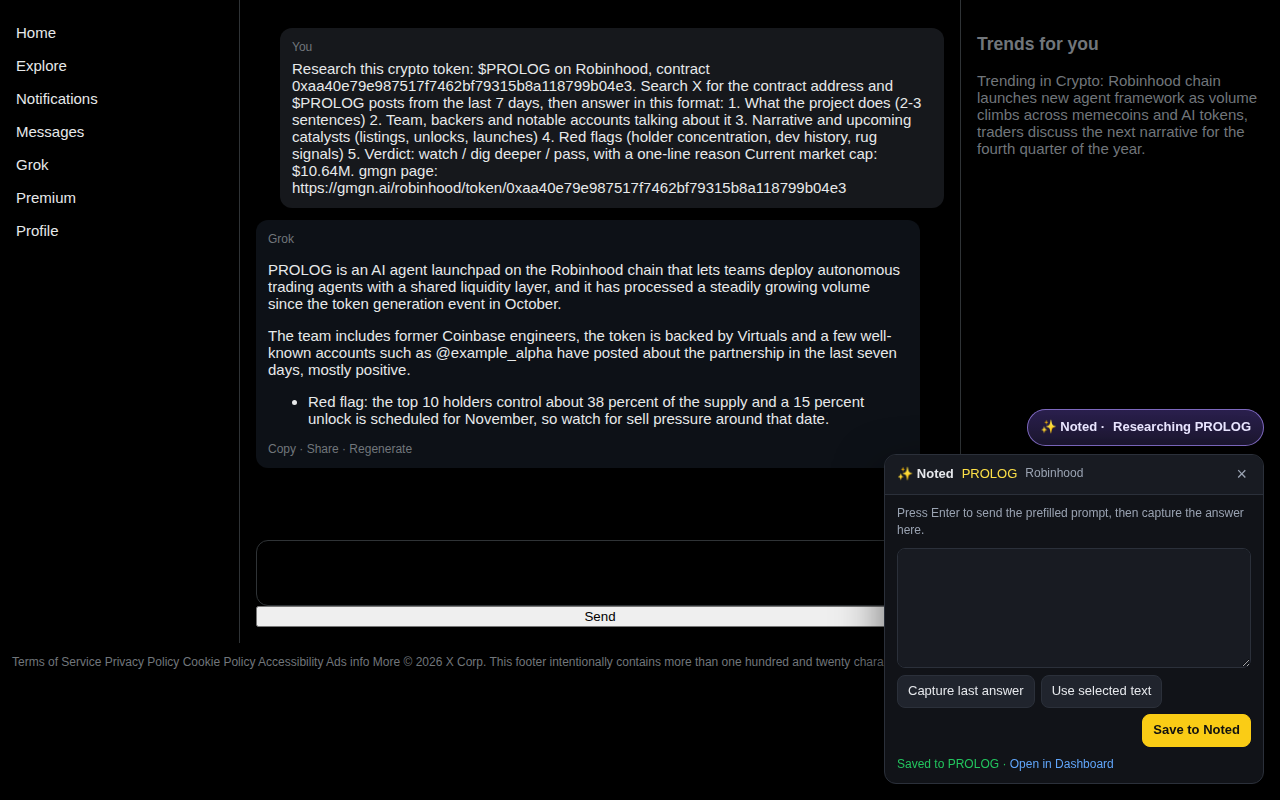
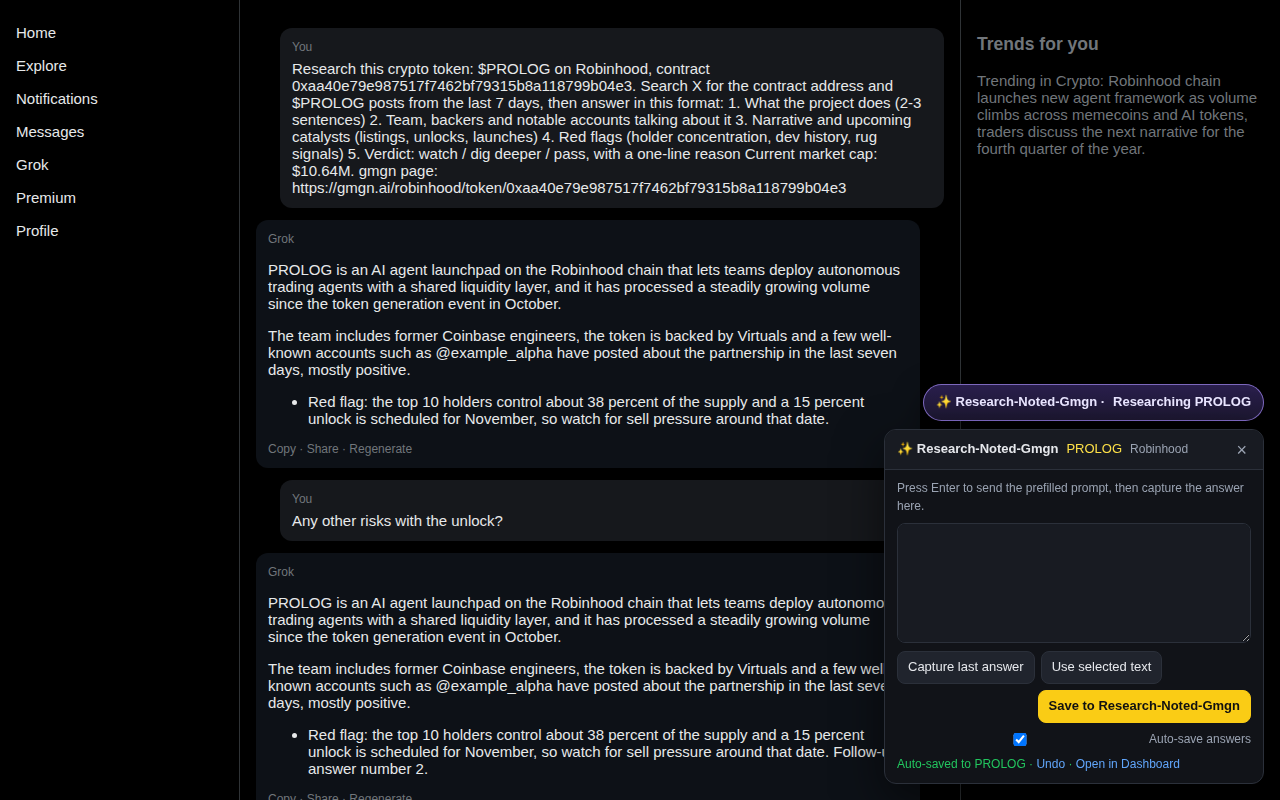
Auto-save Grok answers
On Grok tabs opened from a note, the panel now watches the conversation
after the prompt is sent: when the latest answer has stopped changing
for 3 s (streaming finished) it is saved into the token's timeline as a
research entry, with an Undo link and a per-panel/Settings toggle.
Content hashes prevent duplicates (also enforced in the background),
follow-up answers become new entries, and undone content is not
re-saved automatically. Manual capture/selection still works. The mock
Grok page streams answers to exercise the stability logic. Version 0.6.0.

Claude-Session: https://claude.ai/code/session_0174wcpqv3PPXBc7TtfHRh6s

Changed region(s): [[0.0, 0.75, 1.0, 1.0], [0.2188, 0.4688, 1.0, 0.6875]]

diff --git a/src/content/grok.js b/src/content/grok.js
@@ -39,9 +39,18 @@ input{flex:1 1 160px}
 .status.ok{color:#22c55e}
 .status.err{color:#f87171}
 .status a{color:#60a5fa;text-decoration:none}
+.auto{display:flex;align-items:center;gap:6px;cursor:pointer}
+.auto input{margin:0}
 `;
 
-  let ctxInfo = null; // { token, symbol, prompt }
+  let ctxInfo = null;          // { token, symbol, prompt }
+  let autoSave = true;         // settings.grokAutoSave
+  const savedHashes = new Set(); // nội dung đã lưu trong tab này (chống trùng)
+  let lastSeen = { hash: '', since: 0 };
+  let lastSaved = null;        // { entryId, symbol } để Hoàn tác
+  let autoTimer = 0;
+
+  function hashText(s) { let h = 0; for (let i = 0; i < s.length; i++) h = (h * 31 + s.charCodeAt(i)) | 0; return `${h}:${s.length}`; }
   const host = document.createElement('div');
   host.id = 'noted-grok-host';
   const shadow = host.attachShadow({ mode: 'open' });
@@ -63,6 +72,7 @@ input{flex:1 1 160px}
               <button class="sel" type="button">${esc(t('grok_selection'))}</button>
               <button class="save primary" type="button" ${linked ? '' : 'disabled'}>${esc(t('grok_save'))}</button>
             </div>
+            ${linked && ctxInfo.prompt ? `<label class="hint auto"><input type="checkbox" class="autochk" ${autoSave ? 'checked' : ''}> ${esc(t('grok_auto'))}</label>` : ''}
             <div class="status"></div>
           </div>
         </div>
@@ -74,6 +84,11 @@ input{flex:1 1 160px}
     q('.cap').addEventListener('click', () => { const v = captureLastAnswer(); if (v) { text.value = v; setStatus(''); } else setStatus(t('grok_empty'), 'err'); });
     q('.sel').addEventListener('click', () => { const v = String(window.getSelection && window.getSelection().toString() || '').trim(); if (v) { text.value = v; setStatus(''); } else setStatus(t('grok_empty'), 'err'); });
     q('.save').addEventListener('click', () => save(text.value));
+    const autochk = q('.autochk');
+    if (autochk) autochk.addEventListener('change', async () => {
+      autoSave = autochk.checked;
+      try { const r = await chrome.storage.local.get('settings'); await chrome.storage.local.set({ settings: { ...(r.settings || {}), grokAutoSave: autoSave } }); } catch (_) {}
+    });
     if (!linked) {
       const sel = q('.recent');
       chrome.runtime.sendMessage({ type: 'noted:recent-projects' }, list => {
@@ -104,25 +119,81 @@ input{flex:1 1 160px}
     });
   }
 
-  function save(value) {
+  function save(value, opts = {}) {
     const text = String(value || '').trim();
     if (!text) { render.setStatus(t('grok_nothing'), 'err'); return; }
+    savedHashes.add(hashText(text));
     const u = new URL(location.href);
     u.searchParams.delete('text'); u.searchParams.delete('q');
     chrome.runtime.sendMessage({ type: 'noted:grok-save', text, url: u.toString(), sourceLabel: t('grok_source') }, res => {
       if (chrome.runtime.lastError || !res || !res.ok) { render.setStatus(t('grok_unlinked'), 'err'); return; }
+      const sym = res.symbol || S.shortAddress(ctxInfo.token.address);
       const st = shadow.querySelector('.status');
       st.className = 'status ok';
-      st.innerHTML = `${esc(t('grok_saved', { symbol: res.symbol || S.shortAddress(ctxInfo.token.address) }))} · <a href="#" class="opendash">${esc(t('grok_open_dashboard'))}</a>`;
+      const label = res.duplicate ? t('grok_dup') : (opts.auto ? t('grok_autosaved', { symbol: sym }) : t('grok_saved', { symbol: sym }));
+      st.innerHTML = `${esc(label)}${res.duplicate ? '' : ` · <a href="#" class="undo">${esc(t('undo'))}</a>`} · <a href="#" class="opendash">${esc(t('grok_open_dashboard'))}</a>`;
+      if (!res.duplicate) lastSaved = { entryId: res.entryId, symbol: sym };
       // Trang web không được điều hướng tới chrome-extension://, nên nhờ background mở tab dashboard.
       st.querySelector('.opendash').addEventListener('click', ev => { ev.preventDefault(); chrome.runtime.sendMessage({ type: 'noted:open-dashboard', key: res.key }); });
+      const undo = st.querySelector('.undo');
+      if (undo) undo.addEventListener('click', ev => {
+        ev.preventDefault();
+        if (!lastSaved) return;
+        chrome.runtime.sendMessage({ type: 'noted:grok-unsave', entryId: lastSaved.entryId }, r2 => {
+          if (chrome.runtime.lastError || !r2 || !r2.ok) return;
+          lastSaved = null; // giữ hash trong savedHashes để auto không lưu lại đúng nội dung vừa hoàn tác
+          render.setStatus(t('grok_undone'), '');
+        });
+      });
     });
   }
 
+  // ---- Tự lưu: sau khi prompt đã được gửi, câu trả lời mới nhất giữ nguyên ≥ 3s (hết streaming) thì lưu ----
+  // Bong bóng chứa prompt của người dùng (khối tối giản chứa 60 ký tự đầu của prompt), null nếu chưa gửi.
+  function promptBubble() {
+    if (!ctxInfo || !ctxInfo.prompt) return null;
+    const head = norm(ctxInfo.prompt).slice(0, 60);
+    if (!head) return null;
+    const composer = document.querySelector('[contenteditable="true"], textarea');
+    for (const el of document.querySelectorAll('div, p, article, section')) {
+      if (host.contains(el) || el.closest('[contenteditable], textarea, form')) continue;
+      if (composer && el.contains(composer)) continue;
+      if (!norm(el.textContent).includes(head)) continue;
+      let deeper = false;
+      for (const c of el.children) if (norm(c.textContent).includes(head)) { deeper = true; break; }
+      if (deeper) continue;
+      if (!el.getClientRects().length) continue;
+      return el;
+    }
+    return null;
+  }
+
+  function autoCheck() {
+    if (!autoSave || !ctxInfo || !ctxInfo.token || !ctxInfo.prompt) return;
+    const bubble = promptBubble();
+    if (!bubble) return; // prompt chưa được gửi
+    const text = captureLastAnswer(bubble);
+    if (!text || text.length < 80) return;
+    const h = hashText(text);
+    if (savedHashes.has(h)) return;
+    const now = Date.now();
+    if (lastSeen.hash !== h) { lastSeen = { hash: h, since: now }; return; }
+    if (now - lastSeen.since < 3000) return;
+    if (render.textEl) render.textEl.value = text;
+    save(text, { auto: true });
+  }
+
+  function startAutoWatch() {
+    const mo = new MutationObserver(() => { clearTimeout(autoTimer); autoTimer = setTimeout(autoCheck, 1500); });
+    mo.observe(document.documentElement, { childList: true, subtree: true, characterData: true });
+    setInterval(autoCheck, 2000);
+  }
+
   // Tìm khối văn bản "tối giản" cuối cùng trước ô nhập, bỏ khối chứa prompt và khối chứa ô nhập.
-  function captureLastAnswer() {
+  function captureLastAnswer(afterEl) {
     const composer = document.querySelector('[contenteditable="true"], textarea');
     const promptHead = ctxInfo && ctxInfo.prompt ? norm(ctxInfo.prompt).slice(0, 60) : '';
+    const after = afterEl || promptBubble();
     const cands = [];
     for (const el of document.querySelectorAll('div, article, section, p, li')) {
       if (host.contains(el)) continue;
@@ -136,6 +207,7 @@ input{flex:1 1 160px}
       if (dominated) continue;
       if (!el.getClientRects().length) continue;
       if (promptHead && norm(txt).includes(promptHead)) continue;
+      if (after && !(after.compareDocumentPosition(el) & Node.DOCUMENT_POSITION_FOLLOWING)) continue; // chỉ khối sau prompt
       cands.push(el);
     }
     const top = cands.filter(el => !cands.some(o => o !== el && o.contains(el)));
@@ -149,10 +221,20 @@ input{flex:1 1 160px}
 
   async function start() {
     await I.init();
+    try { const r = await chrome.storage.local.get('settings'); autoSave = !(r.settings && r.settings.grokAutoSave === false); } catch (_) {}
+    chrome.storage.onChanged.addListener((changes, area) => {
+      if (area === 'local' && changes.settings) {
+        const v = changes.settings.newValue && changes.settings.newValue.grokAutoSave;
+        autoSave = v !== false;
+        const chk = shadow.querySelector('.autochk');
+        if (chk) chk.checked = autoSave;
+      }
+    });
     chrome.runtime.sendMessage({ type: 'noted:grok-context' }, res => {
       if (!chrome.runtime.lastError && res && res.token) ctxInfo = res;
       render();
       (document.body || document.documentElement).appendChild(host);
+      startAutoWatch();
     });
   }
   start();

diff --git a/test/e2e.js b/test/e2e.js
@@ -273,18 +273,36 @@ const drawerOpen = page => page.evaluate(() => !!document.getElementById('noted-
   const gq = (sel, prop = 'textContent') => grok.evaluate(([s, p]) => { const el = document.getElementById('noted-grok-host').shadowRoot.querySelector(s); return el ? el[p] : null; }, [sel, prop]);
   const gclick = sel => grok.evaluate(s => document.getElementById('noted-grok-host').shadowRoot.querySelector(s).click(), sel);
   assert((await gq('.pill')).includes('PROLOG'), 'panel trên Grok biết đang research PROLOG');
+  assert((await gq('.autochk', 'checked')) === true, 'panel có công tắc tự lưu, mặc định bật');
+  const grokEntries = async () => (await sw.evaluate(async k => (await chrome.storage.local.get('p:' + k))['p:' + k], PROLOG)).timeline.filter(e => e.source === 'grok');
+  assert((await grokEntries()).length === 0, 'chưa gửi prompt thì chưa lưu gì (dù trên trang có nhiều khối chữ)');
   await grok.click('#send');
-  await grok.waitForSelector('.msg.grok');
-  await gclick('.cap');
+  await grok.waitForFunction(() => { const s = document.getElementById('noted-grok-host').shadowRoot.querySelector('.status'); return s.classList.contains('ok') && s.textContent.includes('Auto-saved'); }, null, { timeout: 25000 });
+  let ge = await grokEntries();
+  assert(ge.length === 1 && ge[0].text.includes(grokMock.ANSWER_P1) && ge[0].text.includes(grokMock.ANSWER_LI), 'tự lưu câu trả lời hoàn chỉnh sau khi hết streaming (không lưu bản dở)');
+  assert(!ge[0].text.includes('Research this crypto token') && !ge[0].text.includes('Trends for you') && !ge[0].text.includes('Terms of Service'), 'không lẫn prompt, sidebar hay footer');
+  assert(ge[0].type === 'research' && ge[0].text.includes('Source: https://x.com/i/grok?conversation=1234567890'), 'mốc loại research, kèm link cuộc trò chuyện');
   const captured = await gq('.text', 'value');
-  assert(captured.includes(grokMock.ANSWER_P1) && captured.includes(grokMock.ANSWER_LI), 'bắt được toàn bộ câu trả lời (nhiều đoạn + list)');
-  assert(!captured.includes('Research this crypto token') && !captured.includes('Trends for you') && !captured.includes('Terms of Service'), 'không lẫn prompt, sidebar hay footer');
+  assert(captured.includes(grokMock.ANSWER_P2), 'ô xem trước hiện nội dung đã tự lưu');
+  await gclick('.undo');
+  await grok.waitForFunction(() => document.getElementById('noted-grok-host').shadowRoot.querySelector('.status').textContent.includes('Removed'), null, { timeout: 5000 });
+  assert((await grokEntries()).length === 0, 'Undo gỡ mốc vừa tự lưu');
+  await grok.waitForTimeout(4500);
+  assert((await grokEntries()).length === 0, 'sau Undo, auto không lưu lại cùng nội dung');
+  await gclick('.cap');
   await gclick('.save');
-  await grok.waitForFunction(() => document.getElementById('noted-grok-host').shadowRoot.querySelector('.status').classList.contains('ok'), null, { timeout: 5000 });
-  const saved = await sw.evaluate(async k => (await chrome.storage.local.get('p:' + k))['p:' + k], PROLOG);
-  const entry = saved.timeline[saved.timeline.length - 1];
-  assert(entry.type === 'research' && entry.source === 'grok' && entry.text.includes(grokMock.ANSWER_P2), 'câu trả lời lưu vào timeline PROLOG (loại research)');
-  assert(entry.text.includes('Source: https://x.com/i/grok?conversation=1234567890'), 'kèm link cuộc trò chuyện, không kèm prompt dài');
+  await grok.waitForFunction(() => document.getElementById('noted-grok-host').shadowRoot.querySelector('.status').textContent.includes('Saved to'), null, { timeout: 5000 });
+  ge = await grokEntries();
+  assert(ge.length === 1, 'lưu thủ công lại được sau Undo');
+  const entry = ge[0];
+  await gclick('.save');
+  await grok.waitForFunction(() => document.getElementById('noted-grok-host').shadowRoot.querySelector('.status').textContent.includes('Already saved'), null, { timeout: 5000 });
+  assert((await grokEntries()).length === 1, 'lưu trùng nội dung bị chặn');
+  await grok.click('#send');
+  await grok.waitForFunction(() => document.querySelectorAll('.msg.grok').length === 2);
+  await grok.waitForFunction(() => { const s = document.getElementById('noted-grok-host').shadowRoot.querySelector('.status'); return s.textContent.includes('Auto-saved'); }, null, { timeout: 25000 });
+  ge = await grokEntries();
+  assert(ge.length === 2 && ge[1].text.includes('Follow-up answer number 2'), 'câu trả lời tiếp theo cũng được tự lưu thành mốc mới');
   await grok.setViewportSize({ width: 1280, height: 800 });
   await grok.screenshot({ path: path.join(OUT, '6-grok-save.png') });
   const dashPromise = ctx.waitForEvent('page');
@@ -305,8 +323,8 @@ const drawerOpen = page => page.evaluate(() => !!document.getElementById('noted-
   await grok2.waitForFunction(() => document.getElementById('noted-grok-host').shadowRoot.querySelector('.pill').textContent.includes('EXTENSION'), null, { timeout: 5000 });
   assert(true, 'chọn dự án gần đây -> gắn EXTENSION');
   await grok2.click('#send');
-  await grok2.waitForSelector('.msg.grok p');
-  await grok2.evaluate(() => { const p = document.querySelector('.msg.grok p'); const r = document.createRange(); r.selectNodeContents(p); const s = getSelection(); s.removeAllRanges(); s.addRange(r); });
+  await grok2.waitForFunction(li => document.querySelector('.msg.grok .li') && document.querySelector('.msg.grok .li').textContent.includes(li), grokMock.ANSWER_LI, { timeout: 10000 }); // đợi streaming xong
+  await grok2.evaluate(() => { const p = document.querySelector('.msg.grok .p1'); const r = document.createRange(); r.selectNodeContents(p); const s = getSelection(); s.removeAllRanges(); s.addRange(r); });
   await grok2.evaluate(() => document.getElementById('noted-grok-host').shadowRoot.querySelector('.sel').click());
   assert((await g2('.text', 'value')) === grokMock.ANSWER_P1, 'Use selected text lấy đúng đoạn bôi đen');
   await grok2.evaluate(() => document.getElementById('noted-grok-host').shadowRoot.querySelector('.save').click());

diff --git a/src/lib/i18n.js b/src/lib/i18n.js
@@ -45,6 +45,7 @@
     bad_url: 'Not a gmgn token URL. Expected: https://gmgn.ai/{chain}/token/{address}',
     imported: 'Imported: {added} new projects, {merged} merged.', import_failed: 'Import failed: {error}',
     follow_page: 'Side panel follows the token you open (gmgn, DexScreener)',
+    grok_auto_setting: 'Auto-save Grok answers into the timeline (tabs opened from a note)', grok_auto: 'Auto-save answers', grok_autosaved: 'Auto-saved to {symbol}', undo: 'Undo', grok_undone: 'Removed', grok_dup: 'Already saved',
     research_btn: '✨ Research with Grok', settings: 'Settings', research_target: 'Open research in', research_template: 'Research prompt template',
     template_help: 'Placeholders: {symbol} {chain} {address} {name} {mc} {summary} {tags} {gmgn_url}', reset_default: 'Reset to default', close_plain: 'Close',
     grok_linked: 'Researching {symbol}', grok_unlinked: 'Not linked to a project',
@@ -94,6 +95,7 @@
     bad_url: 'Không nhận ra URL token gmgn. Dạng đúng: https://gmgn.ai/{chain}/token/{address}',
     imported: 'Đã nhập: {added} dự án mới, {merged} dự án được gộp.', import_failed: 'Nhập thất bại: {error}',
     follow_page: 'Side panel tự chuyển theo token đang mở (gmgn, DexScreener)',
+    grok_auto_setting: 'Tự lưu câu trả lời của Grok vào timeline (tab mở từ ghi chú)', grok_auto: 'Tự lưu câu trả lời', grok_autosaved: 'Đã tự lưu vào {symbol}', undo: 'Hoàn tác', grok_undone: 'Đã gỡ', grok_dup: 'Đã lưu trước đó',
     research_btn: '✨ Research với Grok', settings: 'Cài đặt', research_target: 'Mở research ở', research_template: 'Mẫu prompt research',
     template_help: 'Biến: {symbol} {chain} {address} {name} {mc} {summary} {tags} {gmgn_url}', reset_default: 'Về mặc định', close_plain: 'Đóng',
     grok_linked: 'Đang research {symbol}', grok_unlinked: 'Chưa gắn với dự án nào',
@@ -143,6 +145,7 @@
     bad_url: '无法识别的 gmgn 代币链接。正确格式：https://gmgn.ai/{chain}/token/{address}',
     imported: '已导入：{added} 个新项目，{merged} 个已合并。', import_failed: '导入失败：{error}',
     follow_page: '侧边栏跟随当前打开的代币（gmgn、DexScreener）',
+    grok_auto_setting: '自动把 Grok 的回答保存到时间线（从笔记打开的标签页）', grok_auto: '自动保存回答', grok_autosaved: '已自动保存到 {symbol}', undo: '撤销', grok_undone: '已移除', grok_dup: '之前已保存',
     research_btn: '✨ 用 Grok 研究', settings: '设置', research_target: '在哪里打开研究', research_template: '研究提示词模板',
     template_help: '占位符：{symbol} {chain} {address} {name} {mc} {summary} {tags} {gmgn_url}', reset_default: '恢复默认', close_plain: '关闭',
     grok_linked: '正在研究 {symbol}', grok_unlinked: '未关联任何项目',

diff --git a/src/background.js b/src/background.js
@@ -119,9 +119,13 @@ chrome.runtime.onMessage.addListener((msg, sender, sendResponse) => {
         let p = await NotedStore.get(m.token.key) || NotedStore.emptyProject(m.token.chain, m.token.address, { symbol: m.symbol || '' });
         if (!p.symbol && m.symbol) p.symbol = m.symbol;
         const body = msg.url ? `${text}\n\n${msg.sourceLabel || 'Source'}: ${msg.url}` : text;
-        p.timeline.push(NotedStore.newEntry('research', body, { source: 'grok' }));
+        // Chống trùng: cùng nội dung đã có trong 10 mốc Grok gần nhất thì không thêm nữa.
+        const dup = p.timeline.filter(e => e.source === 'grok').slice(-10).find(e => e.text === body);
+        if (dup) { sendResponse({ ok: true, duplicate: true, key: p.key, symbol: p.symbol, entryId: dup.id, entries: p.timeline.length }); return; }
+        const entry = NotedStore.newEntry('research', body, { source: 'grok' });
+        p.timeline.push(entry);
         p = await NotedStore.save(p);
-        sendResponse({ ok: true, key: p.key, symbol: p.symbol, entries: p.timeline.length });
+        sendResponse({ ok: true, key: p.key, symbol: p.symbol, entryId: entry.id, entries: p.timeline.length });
       })();
       return true;
     }
@@ -149,6 +153,22 @@ chrome.runtime.onMessage.addListener((msg, sender, sendResponse) => {
       dexResolve(String(msg.chain || '').toLowerCase(), Array.isArray(msg.addresses) ? msg.addresses : [])
         .then(r => sendResponse({ ok: true, results: r.results, reasons: r.reasons }))
         .catch(err => sendResponse({ ok: false, error: String(err && err.message), results: {}, reasons: {} }));
+      return true;
+    }
+    case 'noted:grok-unsave': { // hoàn tác một mốc Grok vừa tự lưu (chỉ mốc source=grok của token gắn với tab)
+      const tabId = fromHost(sender, GROK_HOSTS) ? sender.tab.id : null;
+      (async () => {
+        const r = tabId ? await chrome.storage.session.get(GROK_PREFIX + tabId) : {};
+        const m = r[GROK_PREFIX + tabId];
+        const id = String(msg.entryId || '');
+        if (!m || !m.token || !id) { sendResponse({ ok: false }); return; }
+        const p = await NotedStore.get(m.token.key);
+        if (!p) { sendResponse({ ok: false }); return; }
+        const before = p.timeline.length;
+        p.timeline = p.timeline.filter(e => !(e.id === id && e.source === 'grok'));
+        if (p.timeline.length !== before) await NotedStore.save(p);
+        sendResponse({ ok: true, removed: before - p.timeline.length });
+      })();
       return true;
     }
     case 'noted:recent-projects': {

diff --git a/test/mock-grok.js b/test/mock-grok.js
@@ -28,13 +28,23 @@ function page(url) {
   <aside><h3>Trends for you</h3><div>Trending in Crypto: Robinhood chain launches new agent framework as volume climbs across memecoins and AI tokens, traders discuss the next narrative for the fourth quarter of the year.</div></aside>
   <footer>Terms of Service Privacy Policy Cookie Policy Accessibility Ads info More © 2026 X Corp. This footer intentionally contains more than one hundred and twenty characters of text.</footer>
   <script>
+    // Giả lập streaming: câu trả lời hiện dần theo từng đoạn nhỏ trong ~1.5s; lần trả lời sau có thêm dòng riêng.
+    let n = 0;
     document.getElementById('send').addEventListener('click', () => {
       const c = document.getElementById('composer');
       const conv = document.getElementById('conv');
       const q = c.textContent.trim();
+      n++;
       conv.insertAdjacentHTML('beforeend', '<div class="msg user"><div class="hdr">You</div><div class="txt"></div></div>');
-      conv.lastElementChild.querySelector('.txt').textContent = q;
-      conv.insertAdjacentHTML('beforeend', '<div class="msg grok"><div class="hdr">Grok</div><div class="md"><p>${esc(ANSWER_P1)}</p><p>${esc(ANSWER_P2)}</p><ul><li>${esc(ANSWER_LI)}</li></ul></div><div class="actions">Copy · Share · Regenerate</div></div>');
+      conv.lastElementChild.querySelector('.txt').textContent = q || 'Any other risks with the unlock?';
+      conv.insertAdjacentHTML('beforeend', '<div class="msg grok"><div class="hdr">Grok</div><div class="md"><p class="p1"></p><p class="p2"></p><ul><li class="li"></li></ul></div><div class="actions">Copy · Share · Regenerate</div></div>');
+      const md = conv.lastElementChild.querySelector('.md');
+      const parts = [['.p1', ${JSON.stringify(ANSWER_P1)}], ['.p2', ${JSON.stringify(ANSWER_P2)}], ['.li', ${JSON.stringify(ANSWER_LI)} + (n > 1 ? ' Follow-up answer number ' + n + '.' : '')]];
+      const chunks = [];
+      for (const [sel, text] of parts) for (let i = 0; i < text.length; i += 40) chunks.push([sel, text.slice(0, i + 40)]);
+      let k = 0;
+      const tick = () => { if (k >= chunks.length) return; const [sel, text] = chunks[k++]; md.querySelector(sel).textContent = text; setTimeout(tick, 60); };
+      tick();
       c.textContent = '';
       history.replaceState({}, '', '/i/grok?conversation=1234567890');
     });

diff --git a/src/dashboard/dashboard.js b/src/dashboard/dashboard.js
@@ -173,12 +173,13 @@
   // ---- Settings modal: giao diện ghi chú, đích research, template prompt ----
   async function initSettings() {
     const R = globalThis.NotedResearch;
-    const modal = $('#settings'), uiMode = $('#ui-mode'), target = $('#research-target'), tpl = $('#research-template'), saved = $('#settings-saved'), follow = $('#follow');
+    const modal = $('#settings'), uiMode = $('#ui-mode'), target = $('#research-target'), tpl = $('#research-template'), saved = $('#settings-saved'), follow = $('#follow'), grokAuto = $('#grok-auto');
     target.innerHTML = Object.entries(R.TARGETS).map(([k, v]) => `<option value="${k}">${E.esc(v.label)}</option>`).join('');
     const load = async () => {
       const st = (await chrome.storage.local.get('settings')).settings || {};
       uiMode.value = st.ui || 'panel';
       follow.checked = st.follow !== false;
+      grokAuto.checked = st.grokAutoSave !== false;
       target.value = st.researchTarget || 'x';
       tpl.value = st.researchTemplate || R.DEFAULT_TEMPLATE;
     };
@@ -193,6 +194,7 @@
     modal.addEventListener('click', ev => { if (ev.target === modal) modal.hidden = true; });
     uiMode.addEventListener('change', () => patch({ ui: uiMode.value }));
     follow.addEventListener('change', () => patch({ follow: follow.checked }));
+    grokAuto.addEventListener('change', () => patch({ grokAutoSave: grokAuto.checked }));
     target.addEventListener('change', () => patch({ researchTarget: target.value }));
     let tplTimer = null;
     tpl.addEventListener('input', () => { clearTimeout(tplTimer); tplTimer = setTimeout(() => patch({ researchTemplate: tpl.value }), 500); });

diff --git a/src/dashboard/dashboard.html b/src/dashboard/dashboard.html
@@ -55,6 +55,7 @@
         <select id="ui-mode"><option value="panel" data-i18n="ui_panel"></option><option value="drawer" data-i18n="ui_drawer"></option></select>
       </label>
       <label class="field chk-row"><input type="checkbox" id="follow"> <span data-i18n="follow_page"></span></label>
+      <label class="field chk-row"><input type="checkbox" id="grok-auto"> <span data-i18n="grok_auto_setting"></span></label>
       <label class="field"><span data-i18n="research_target"></span><select id="research-target"></select></label>
       <label class="field"><span data-i18n="research_template"></span>
         <textarea id="research-template" rows="9" spellcheck="false"></textarea>

diff --git a/README.md b/README.md
@@ -28,10 +28,10 @@ Works on every chain gmgn supports (`sol`, `eth`, `base`, `bsc`, `robinhood`, `x
 
 1. Open a note (side panel, overlay or dashboard) and click **✨ Research with Grok**.
 2. The extension builds a prompt from your template with the token's symbol, chain, contract, current market cap and gmgn link, and opens Grok on X (or grok.com) in a new tab with the prompt prefilled. Press Enter.
-3. On the Grok page a small **Research-Noted-Gmgn** panel appears at the bottom right. After Grok answers, click **Capture last answer**, or select the text you want and click **Use selected text**. Edit if needed, then **Save to Research-Noted-Gmgn**.
-4. The answer lands in the token's timeline as a *Research* entry with a link back to the Grok conversation. If you opened Grok by hand, the panel lets you pick a recent project or paste a gmgn token URL to link it.
+3. On the Grok page a small **Research-Noted-Gmgn** panel appears at the bottom right. Once Grok finishes answering (the text has stopped changing for ~3 s), the answer is **saved automatically** into the token's timeline; the panel shows "Auto-saved" with an **Undo** link. Follow-up answers in the same conversation are saved as new entries; identical content is never saved twice. You can still **Capture last answer** or select text and **Use selected text** to save something specific.
+4. Entries are of type *Research* and carry a link back to the Grok conversation. If you opened Grok by hand, the panel lets you pick a recent project or paste a gmgn token URL to link it; auto-save only applies to tabs opened from a note (so it never guesses on an unrelated page).
 
-The template, the target (Grok on X / grok.com) and the follow-the-page toggle live in **Dashboard → ⚙ Settings**. Placeholders: `{symbol} {chain} {address} {name} {mc} {summary} {tags} {gmgn_url}`. No API key is needed; Grok runs in your own X account, and only the answer text you choose to save is stored, locally.
+The template, the target (Grok on X / grok.com), auto-save and the follow-the-page toggle live in **Dashboard → ⚙ Settings** (auto-save can also be toggled on the Grok panel itself). Placeholders: `{symbol} {chain} {address} {name} {mc} {summary} {tags} {gmgn_url}`. No API key is needed; Grok runs in your own X account, and only the answer text you choose to save is stored, locally.
 
 ## Install (load unpacked)
 

diff --git a/docs/store-listing.md b/docs/store-listing.md
@@ -27,7 +27,7 @@ The Store lets you add one listing per language. Fill **English** first (default
     • Token page: floating button with symbol + summary, shortcut Alt+N.
     • Dashboard: full-text search, filter by tag / status / pinned, sort, edit in place, add by gmgn URL.
     • Export/import JSON for backup, export Markdown to feed an AI.
-    • Research with Grok: one click opens Grok with a prompt built from your template (symbol, contract, market cap), and a Save button on the Grok page puts the answer into the token's timeline.
+    • Research with Grok: one click opens Grok with a prompt built from your template (symbol, contract, market cap); the answer is saved into the token's timeline automatically (with Undo), or manually.
     • Interface in English, Vietnamese and Chinese.
 
     Your data stays on your device. No server, no tracking, no account.
